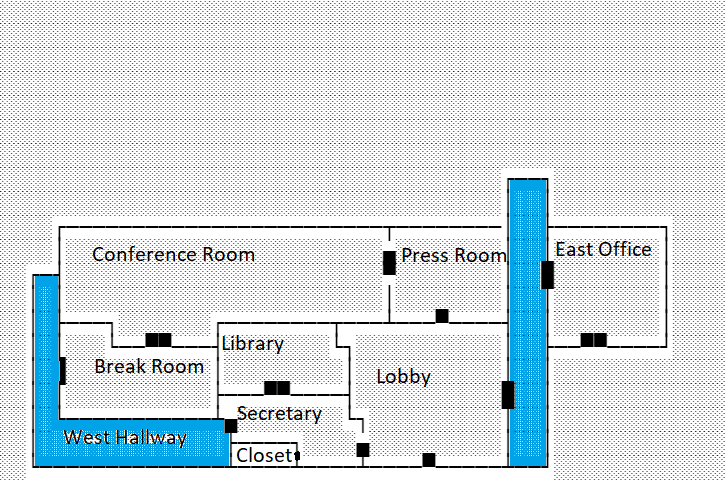
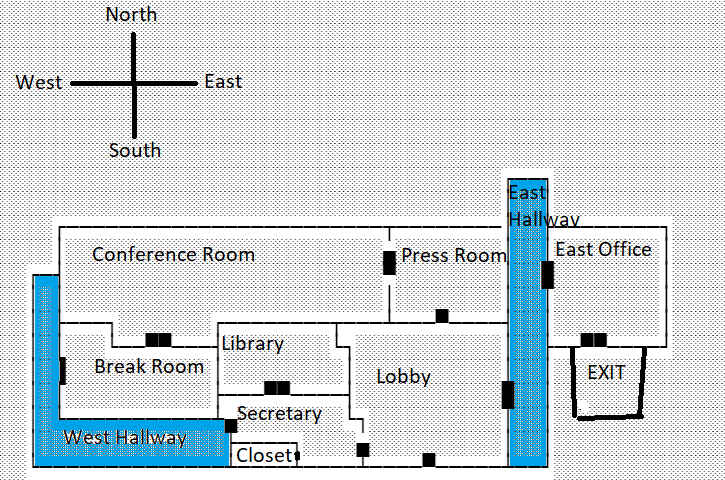
updated intro display to generate random room for player to start

Changed region(s): [[0.0, 0.0, 0.3338, 0.3438], [0.789, 0.7188, 0.9103, 0.875], [0.6979, 0.375, 0.8193, 0.4688]]

diff --git a/main.py b/main.py
@@ -3,7 +3,20 @@ import random
 
 from PIL import Image
 
-list_of_items = {1: 'knife', 2: 'gun', 3: 'ammo', 4: 'Map', 5: 'Red Key', 6: 'Blue Key'}
+list_of_items = ['knife', 'gun', 'ammo', 'Map', 'Red Key', 'Blue Key']
+zombie = 1
+rooms = {
+    'Lobby': {'West': 'Secretary Office', 'East': 'East Hallway', 'North': "Press Room", 'Item': 'knife'},
+    'Secretary Office': {'South': 'Closest', 'West': 'West Hallway', 'East': 'Lobby', 'North': 'Conference Room'
+                         },
+    'Closet': {'East': 'Secretary Office', 'Item': 'Gun', 'Item2': 'Red Key'},
+    'West Hallway': {'North-East': 'Break Room', 'East': 'Secretary Office', 'Item': 'Ammo'},
+    'Conference Room': {'South': 'Break Room', 'Item': 'Blue Key', 'West': 'West Hallway', 'East': 'Press Room'},
+    'Press Room': {'South': 'Lobby', 'West': 'Conference Room', 'Enemy': 'Zombie 1'},
+    'East Hallway': {'East': 'East Office', 'South West': 'Lobby'}
+}
+
+user_inventory = []
 
 
 def zombie_movement():
@@ -12,43 +25,11 @@ def zombie_movement():
 
 
 def store_items(items):
-    items = ['test', 'test2', 'Map']
-    return items
+    pass
 
 
-def directions_to_go():
-    global location
-
-    rooms = {
-        'Lobby': {'West': 'Secretary Office', 'East': 'East Hallway', 'North': "Press Room", 'Item': 'knife'},
-        'Secretary Office': {'South': 'Closest', 'West': 'West Hallway', 'East': 'Lobby', 'North': 'Conference Room'
-                             },
-        'Closet': {'East': 'Secretary Office', 'Item': 'Gun', 'Item2': 'Red Key'},
-        'West Hallway': {'North-East': 'Break Room', 'East': 'Secretary Office', 'Item': 'Ammo'},
-        'Conference Room': {'South': 'Break Room', 'Item': 'Blue Key', 'West': 'West Hallway', 'East': 'Press Room'},
-        'Press Room': {'South': 'Lobby', 'West': 'Conference Room', 'Enemy': 'Zombie 1'},
-        'East Hallway': {'East': 'East Office', 'South West': 'Lobby'}
-    }
-    room_copy = rooms.copy()
-    while True:
-        player_location = input('Enter where you like to go. Remember you must find the map first to be able to'
-                                ' display it. You are currently in the Lobby')
-        if player_location == 'Lobby':
-            user_item = input(f'You are currently in the: {player_location}. You see something shiny in the corner. '
-                              f'Do you wish to '
-                              f' take it? Type Yes or No')
-            if user_item.capitalize() == 'Yes':
-                print('You took the ammo')
-        elif player_location == 'Secretary Office':
-            user_item = input(
-                f'You are currently in the: {player_location}. You see an open closet with a foul stench so you '
-                f'investigate it. \n'
-                f'Upon investigation, you noticed a gun in a dead zombie\'s hand and you find a Red Key\n'
-                f' take it? Type Yes or No')
-            if user_item.capitalize() == 'Yes':
-                print('You took the red key and the gun')
-
-        return player_location
+def first_location():
+    return user_inventory
 
 
 def display_map():
@@ -72,29 +53,26 @@ def display_map():
                 print('Invalid input, please try again')
                 break
 
-    directions_to_go()
-
 
 def intro_display():
-    global user_name
     while True:
         user_name = input('State your name?\n')
         if user_name.isalpha():
             'Please enter a-z characters only'
             print(f'Hello,Agent {user_name} welcome to Mission 1: Escape the Police Station')
-            # time.sleep(3)
+            time.sleep(3)
             print('My name is Dexter and I am here to guide you on your mission\n'
                   'You are currently at J Edgar Hoover building and one of your coworkers have turned into a zombie\n'
                   'I managed to save you by injecting you with an antidote and giving you an ear piece so I can guide\n'
                   'you out of the police station. Just listen to everything I tell you and you will be fine.')
-            # time.sleep(5)
+            time.sleep(5)
             print('You have 3 objectives: \n\t'
                   'Collect 6 items in the map\n\t'
                   'Kill zombies\n\t'
                   'Escape\n')
-            # time.sleep(3)
+            time.sleep(3)
             print('You will need to find the following\t')
-            for items in list_of_items.values():
+            for items in list_of_items:
                 print('\t', items)
 
             print('If you run into any zombies before you have collected a knife or gun with ammo you will DIE.')
@@ -104,22 +82,33 @@ def intro_display():
                   'This '
                   'is\n '
                   'a matter of urgency')
-    directions_to_go()
+
+    play = int(input('Would you like to play Operation Escape Route 1 for yes or 0 for no\n'))
+    while True:
+        try:
+            list_of_rooms = ['Lobby', 'Library', 'Secretary', 'Conference Room', 'Break Room', 'Press Room',
+                             'East Office', 'Closet']
+            random_room = random.choices(list_of_rooms)
+            print(f'you are currently in the {random_room}')
+            if play == 1:
+                user_directions = ['West', 'East', 'South', 'North']
+                user_direction = input(
+                    'Please enter where you would like to go. Enter go and the direction you would like to '
+                    f'go. Here are your choices\n{user_directions}')
+                try:
+                    if user_direction.capitalize() == 'go west'.capitalize():
+                        print(f'You selected to {user_direction}')
+                    else:
+                        print('incorrect input')
+                except ValueError:
+                    print('Please enter valid input')
+            elif play == 0:
+                print('Thanks for playing, Goodbye.')
+                break
+        except ValueError:
+            print('Please enter valid input!')
 
 
 if __name__ == '__main__':
-    # playAgain = int(input('Would you like to play Operation Escape Route 1 for yes or 0 for no\n'))
-    # while True:
-    #     try:
-    #         if playAgain == 1:
-    #             intro_display()
-    #             display_map()
-    #             break
-    #         elif playAgain == 0:
-    #             print('Thanks for playing, Goodbye.')
-    #             break
-    #     except ValueError:
-    #         print('Please enter valid input!')
-
-    directions_to_go()
+    intro_display()
 # See PyCharm help at https://www.jetbrains.com/help/pycharm/
